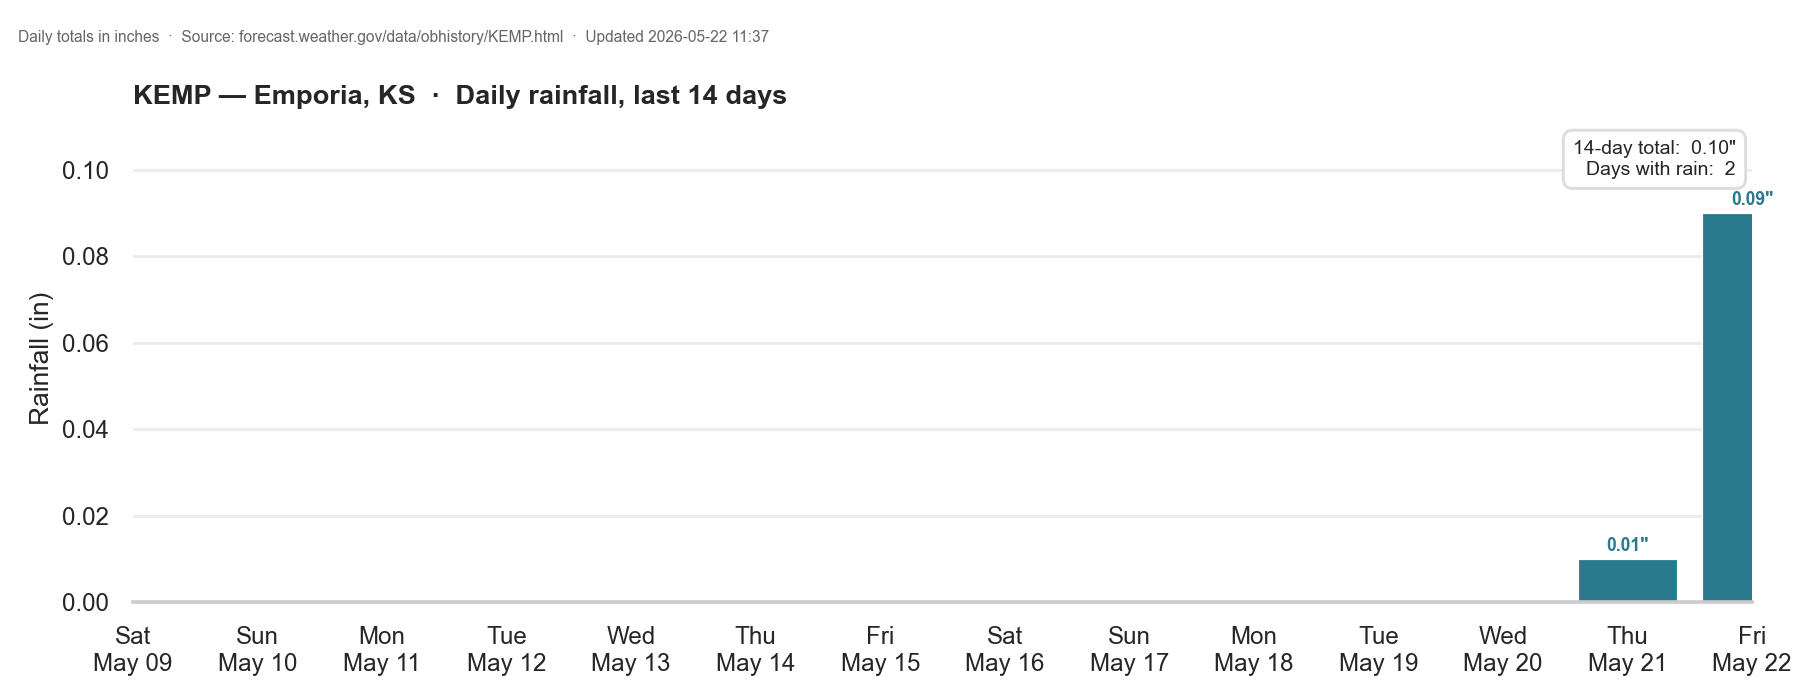
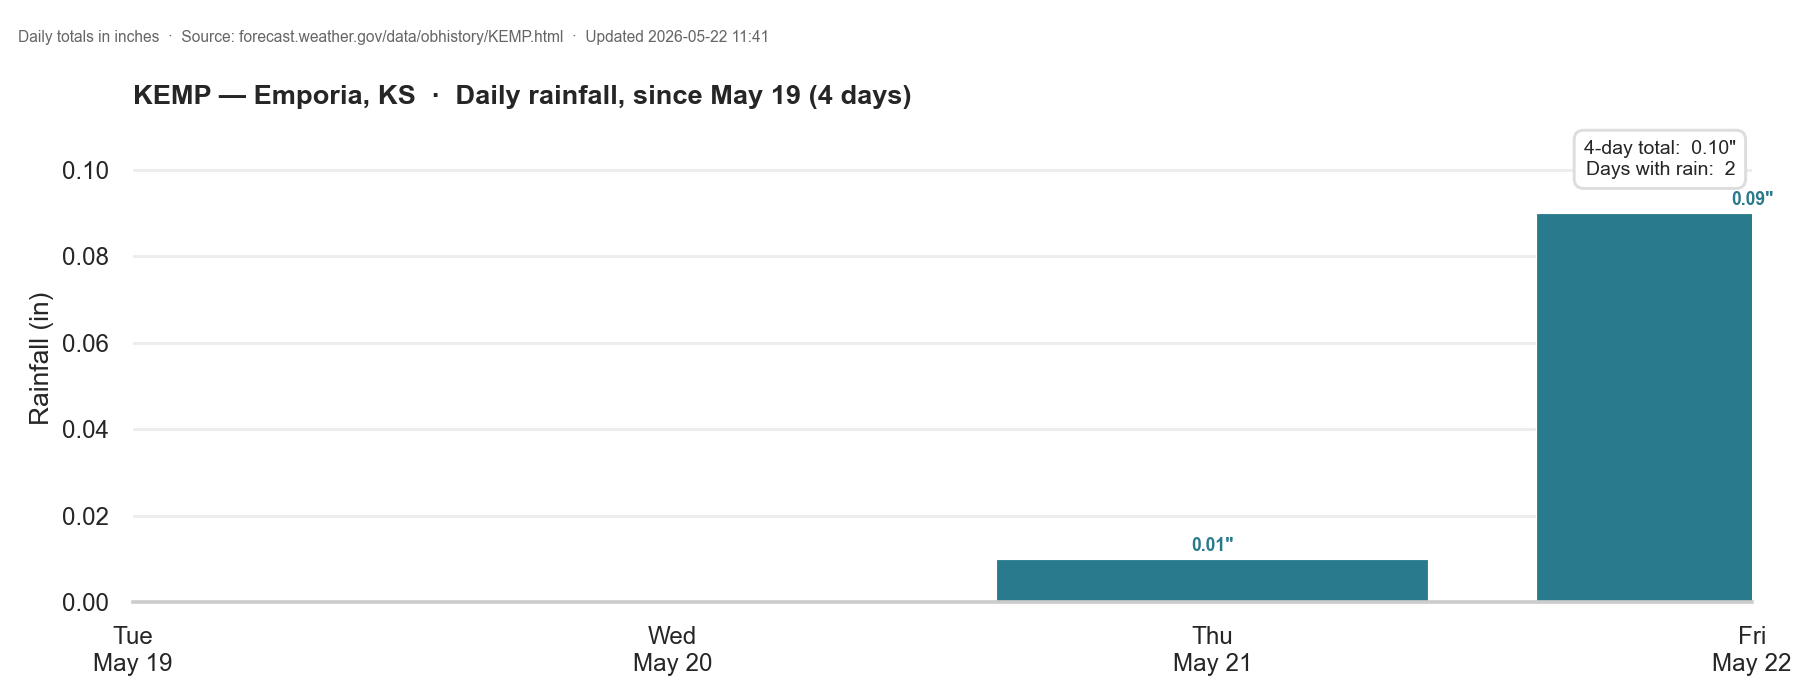
chart: anchor left edge to oldest data, grow until 14-day window fills
Before, the chart always plotted a 14-day window back from today and
showed empty bars for days that predate our first observation. Now the
left edge starts at the oldest date in the running CSV and rolls forward
as new days arrive. Once the span hits 14 days it becomes a standard
rolling window. Summary box now reflects the actual span.

diff --git a/run_update.py b/run_update.py
@@ -150,9 +150,22 @@ def render_chart(all_rows: list[dict]) -> int:
     to avoid double-counting overlapping windows.
     """
     today_local = date.today()
-    cutoff_date = today_local - timedelta(days=CHART_DAYS - 1)
+    data_dates = {
+        ts.date()
+        for r in all_rows
+        if (ts := parse_ts(r)) is not None and ts.date() <= today_local
+    }
+    if not data_dates:
+        log("no data points yet; skipping chart")
+        return 0
+
+    earliest_data = min(data_dates)
+    # Chart starts at the oldest day with data; grows until it spans CHART_DAYS,
+    # then rolls forward as a 14-day window.
+    start_date = max(earliest_data, today_local - timedelta(days=CHART_DAYS - 1))
+    span = (today_local - start_date).days + 1
     totals: dict[date, float] = {
-        cutoff_date + timedelta(days=i): 0.0 for i in range(CHART_DAYS)
+        start_date + timedelta(days=i): 0.0 for i in range(span)
     }
 
     rows_used = 0
@@ -161,7 +174,7 @@ def render_chart(all_rows: list[dict]) -> int:
         if ts is None:
             continue
         d = ts.date()
-        if d < cutoff_date or d > today_local:
+        if d < start_date or d > today_local:
             continue
         if ts.minute < 50:
             continue  # skip SPECIs to avoid overlapping the :53 hourly METAR
@@ -188,7 +201,11 @@ def render_chart(all_rows: list[dict]) -> int:
                         ha="center", fontsize=9, color=bar_color,
                         weight="bold")
 
-    ax.set_title(f"KEMP — Emporia, KS  ·  Daily rainfall, last {CHART_DAYS} days",
+    if span >= CHART_DAYS:
+        title_span = f"last {CHART_DAYS} days"
+    else:
+        title_span = f"since {start_date.strftime('%b %d')} ({span} day{'s' if span != 1 else ''})"
+    ax.set_title(f"KEMP — Emporia, KS  ·  Daily rainfall, {title_span}",
                  fontsize=14, weight="bold", loc="left")
     fig.text(0.01, 0.94,
              f"Daily totals in inches  ·  Source: forecast.weather.gov/data/obhistory/{STATION}.html"
@@ -208,8 +225,9 @@ def render_chart(all_rows: list[dict]) -> int:
 
     total = sum(values)
     wet_days = sum(1 for v in values if v > 0)
+    summary_label = f"{span}-day" if span < CHART_DAYS else f"{CHART_DAYS}-day"
     ax.text(0.99, 0.95,
-            f"{CHART_DAYS}-day total:  {total:.2f}\"\n"
+            f"{summary_label} total:  {total:.2f}\"\n"
             f"Days with rain:  {wet_days}",
             transform=ax.transAxes, ha="right", va="top", fontsize=10,
             bbox=dict(facecolor="white", edgecolor="#ddd",